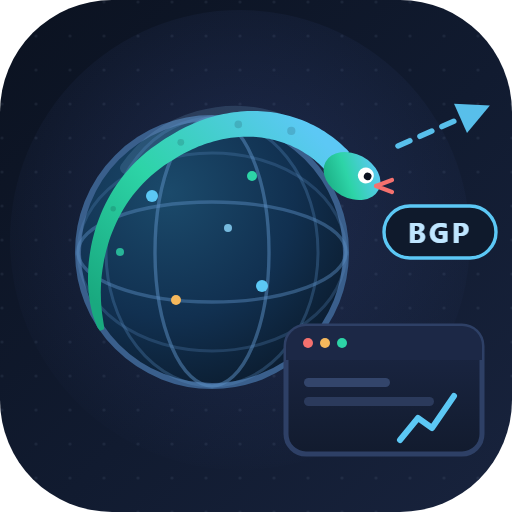
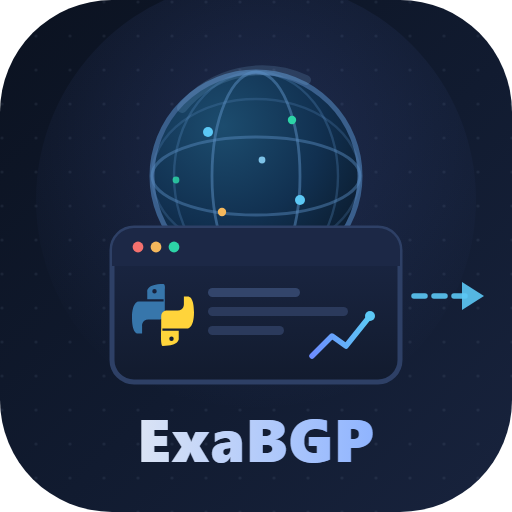
assets: 徽标改为 ExaBGP 字标版（去蛇、加 Python 与 WebUI）
- 去掉 Python 蛇，避免与『Python 语言』混淆
- 底部加大写 ExaBGP 字标，突出项目名
- 控制台窗口内加入 Python 双色标识，表达 WebUI 由 Python 实现
- 保留地球经纬网格（区域/全球 IP 网段）与右侧 BGP UPDATE 虚线箭头
- favicon 同步为地球+控制台+Python 配色的精简版

diff --git a/v6/index.html b/v6/index.html
@@ -4,7 +4,7 @@
 <meta charset="UTF-8">
 <meta name="viewport" content="width=device-width, initial-scale=1.0">
 <title>ExaBGP 控制台</title>
[2 lines of base64/hex data omitted]
 <style>
   :root{
     --bg:#0c1322; --panel:#131c30; --panel2:#0f1728; --border:#243354; --text:#dbe4f5;

diff --git a/README.md b/README.md
@@ -172,4 +172,4 @@ docker run -d --name exabgp-v6 --network host \
 
 ---
 
-<sub>图标说明：地球经纬网格（区域 / 全球 IP 网络）+ Python 蛇（自动化采集）+ 虚线宣告箭头与 `BGP` 会话标签（把路由播给 CE）+ 控制台窗口（WebUI）。源文件 `assets/icon.svg`，可直接用于文档、镜像标注与 favicon。</sub>
+<sub>图标说明：地球经纬网格（区域 / 全球 IP 网段）+ 控制台窗口（WebUI）+ Python 标识（实现语言）+ 右侧虚线箭头（把 BGP UPDATE 播给 CE），底部为 ExaBGP 字标。源文件 `assets/icon.svg`，可直接用于文档、镜像标注与 favicon。</sub>
